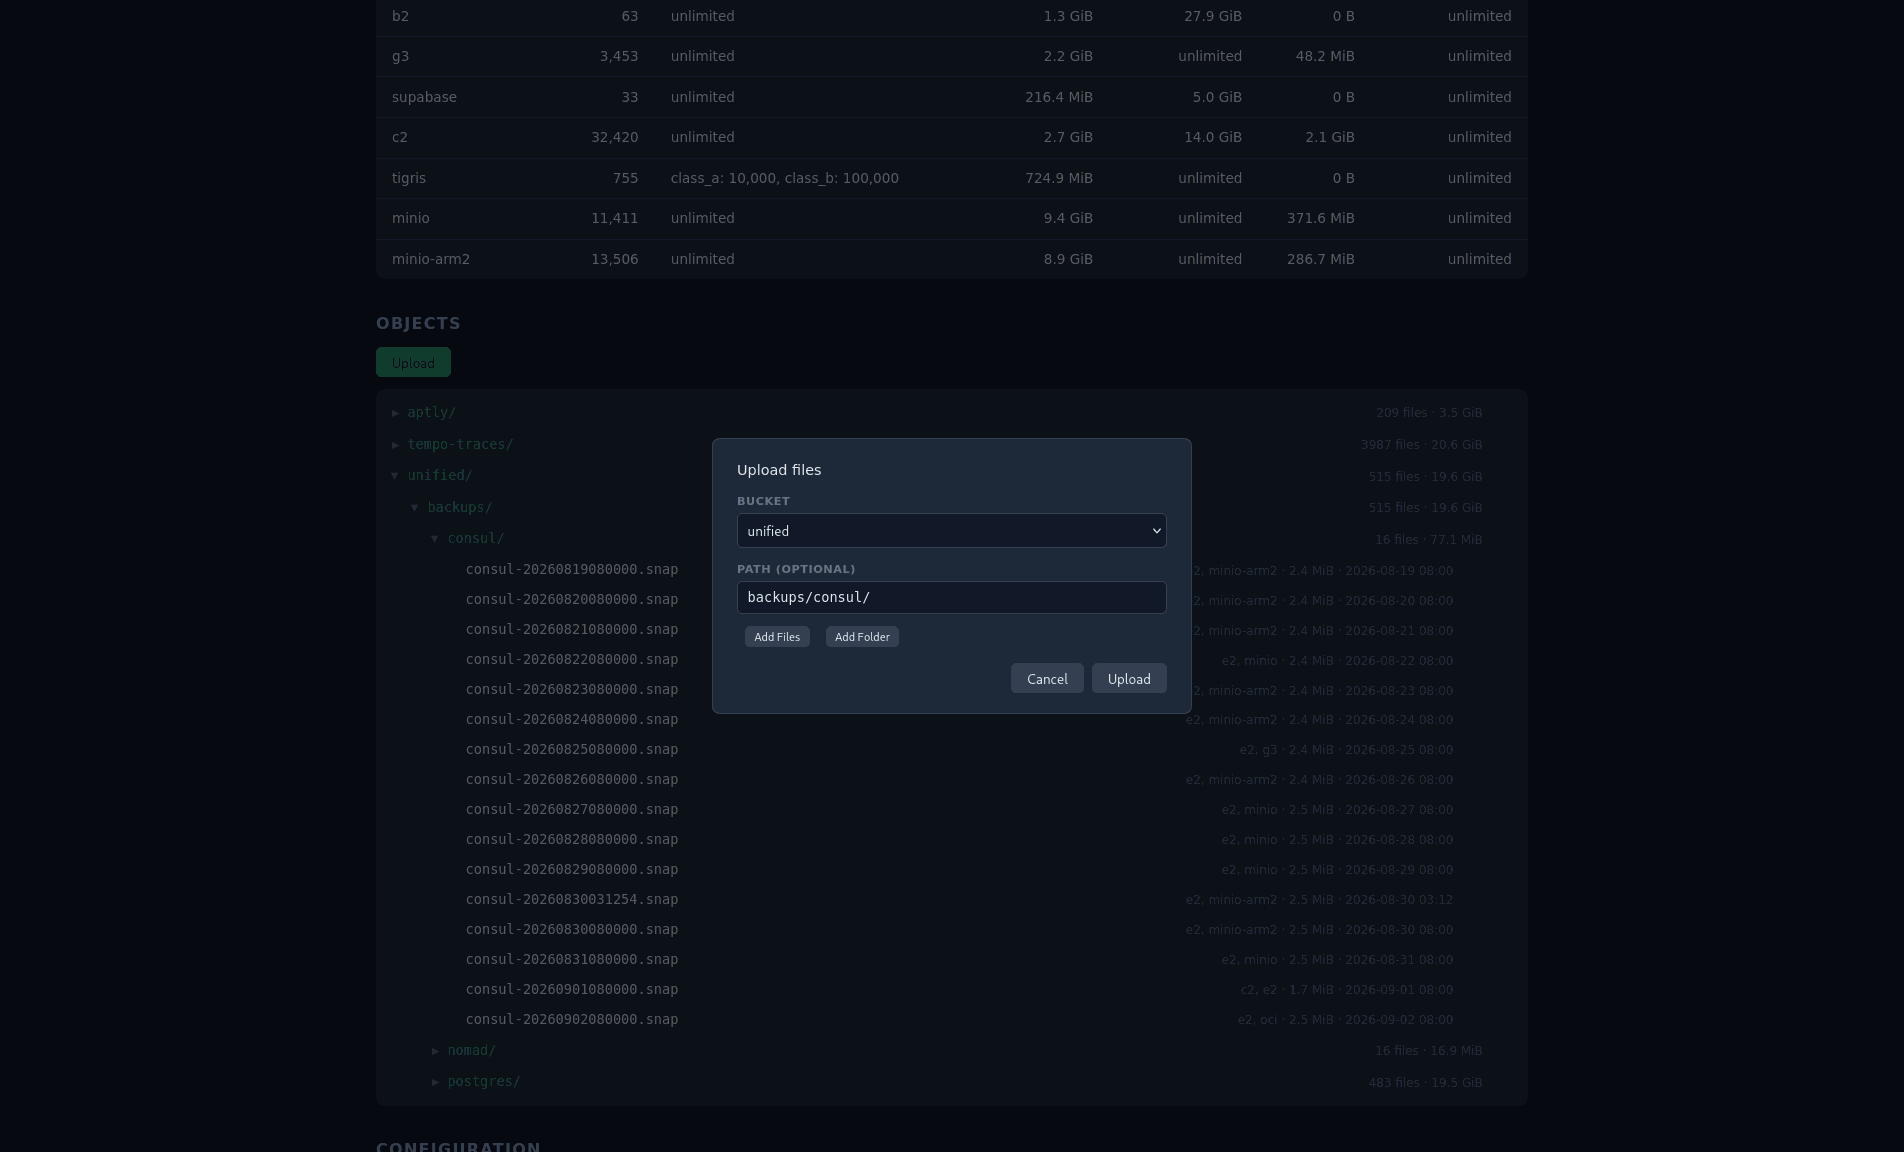
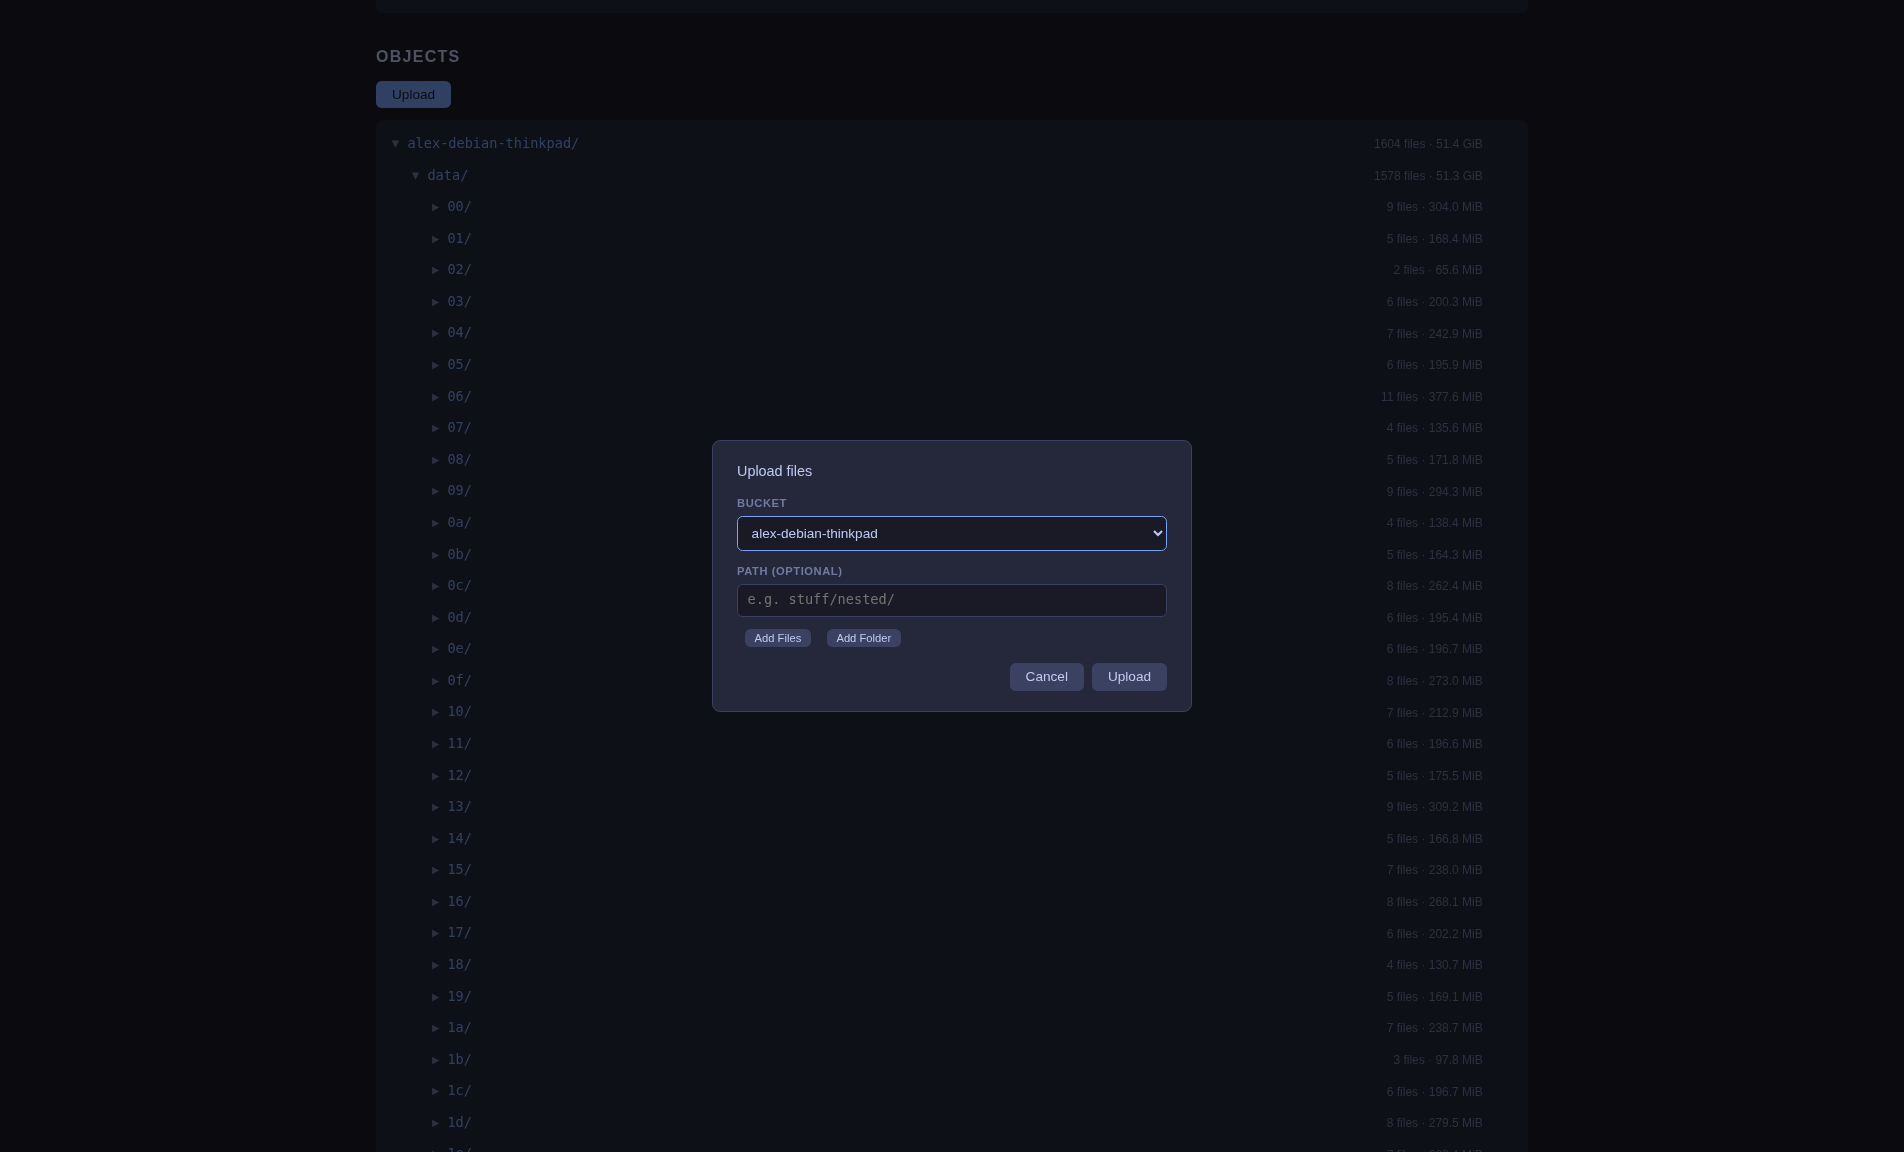
fix(ui): list buckets from the store as well as the config file
The dashboard built its bucket list from the config file alone, so a
bucket provisioned in the store never appeared on the configuration
line, in the upload and sync dialogs, or in the object tree. It now uses
the declared set, which covers both sources.

Also refreshes the web UI screenshots for the new palette and assigns
run-banner.sh's positional parameter to a local.

Closes #1611
Closes #1612

diff --git a/internal/transport/ui/handler_test.go b/internal/transport/ui/handler_test.go
@@ -20,6 +20,7 @@ import (
 	"net/http"
 	"net/http/httptest"
 	"net/url"
+	"slices"
 	"strings"
 	"testing"
 	"time"
@@ -570,6 +571,36 @@ func TestDashboard_Returns200HTML(t *testing.T) {
 	}
 }
 
+// TestDashboard_ListsStoreBuckets verifies a bucket provisioned in the store,
+// and absent from the config file, appears everywhere the dashboard lists
+// buckets: the configuration line, the upload and sync dialogs' choices, and
+// the object tree.
+func TestDashboard_ListsStoreBuckets(t *testing.T) {
+	t.Parallel()
+	h, mux := newTestHandler(t)
+	declared, ok := h.buckets.(*provisioning.Declared)
+	if !ok {
+		t.Fatalf("buckets = %T, want *provisioning.Declared", h.buckets)
+	}
+	declared.Set(append(slices.Clone(declared.Buckets()),
+		provisioning.Bucket{Name: "store-only", Source: provisioning.SourceStore}))
+
+	req := authedRequest(t, h, mux, http.MethodGet, "/ui/", nil)
+	w := httptest.NewRecorder()
+	mux.ServeHTTP(w, req)
+	body := w.Body.String()
+
+	if !strings.Contains(body, `<span class="tag">store-only</span>`) {
+		t.Error("configuration line does not list the store bucket")
+	}
+	if n := strings.Count(body, `<option value="store-only">`); n != 2 {
+		t.Errorf("store bucket offered in %d dialogs, want the upload and sync dialogs", n)
+	}
+	if !strings.Contains(body, `data-prefix="store-only/"`) {
+		t.Error("object tree does not show the store bucket")
+	}
+}
+
 // TestAPIDashboard_ReturnsJSON verifies the apidashboard returns json contract.
 // Asserts that status = , want 200.
 func TestAPIDashboard_ReturnsJSON(t *testing.T) {
@@ -670,16 +701,15 @@ func TestSecurityHeaders_PresentOnAllEndpoints(t *testing.T) {
 	}
 }
 
-// TestUpdateConfig_ReflectsInDashboard verifies the update config reflects in dashboard path by exercising h.UpdateConfig, httptest.NewRecorder, mux.ServeHTTP.
+// TestUpdateConfig_ReflectsInDashboard verifies a reloaded config's settings
+// reach the dashboard. The bucket list comes from the declared set, which a
+// reload updates separately; TestDashboard_ListsStoreBuckets covers it.
 func TestUpdateConfig_ReflectsInDashboard(t *testing.T) {
 	t.Parallel()
 	h, mux := newTestHandler(t)
 
 	// Update config with a different routing strategy
 	newCfg := &config.Config{
-		Buckets: []config.BucketConfig{
-			{Name: "updated-bucket"},
-		},
 		RoutingStrategy: config.RoutingSpread,
 		Replication:     config.ReplicationConfig{Factor: 2},
 		RateLimit:       config.RateLimitConfig{Enabled: true},
@@ -695,9 +725,6 @@ func TestUpdateConfig_ReflectsInDashboard(t *testing.T) {
 
 	if !strings.Contains(html, "spread") {
 		t.Error("dashboard should reflect updated routing strategy 'spread'")
-	}
-	if !strings.Contains(html, "updated-bucket") {
-		t.Error("dashboard should reflect updated bucket name")
 	}
 }
 

diff --git a/internal/transport/ui/dashboard.go b/internal/transport/ui/dashboard.go
@@ -108,13 +108,11 @@ func (h *Handler) handleDashboard(w http.ResponseWriter, r *http.Request) {
 	}
 
 	cfg := h.cfg.Load()
-	bucketNames := make([]string, len(cfg.Buckets))
-	for i, b := range cfg.Buckets {
-		bucketNames[i] = b.Name
-	}
+	bucketNames := h.buckets.Names()
 
-	// Ensure every configured bucket appears as a top-level directory in the
-	// object tree, even when the bucket has no files yet.
+	// Ensure every declared bucket, from the config file or the store, appears
+	// as a top-level directory in the object tree, even when it has no files
+	// yet.
 	existing := make(map[string]bool, len(data.TopLevelEntries.Entries))
 	for _, e := range data.TopLevelEntries.Entries {
 		existing[e.Name] = true
